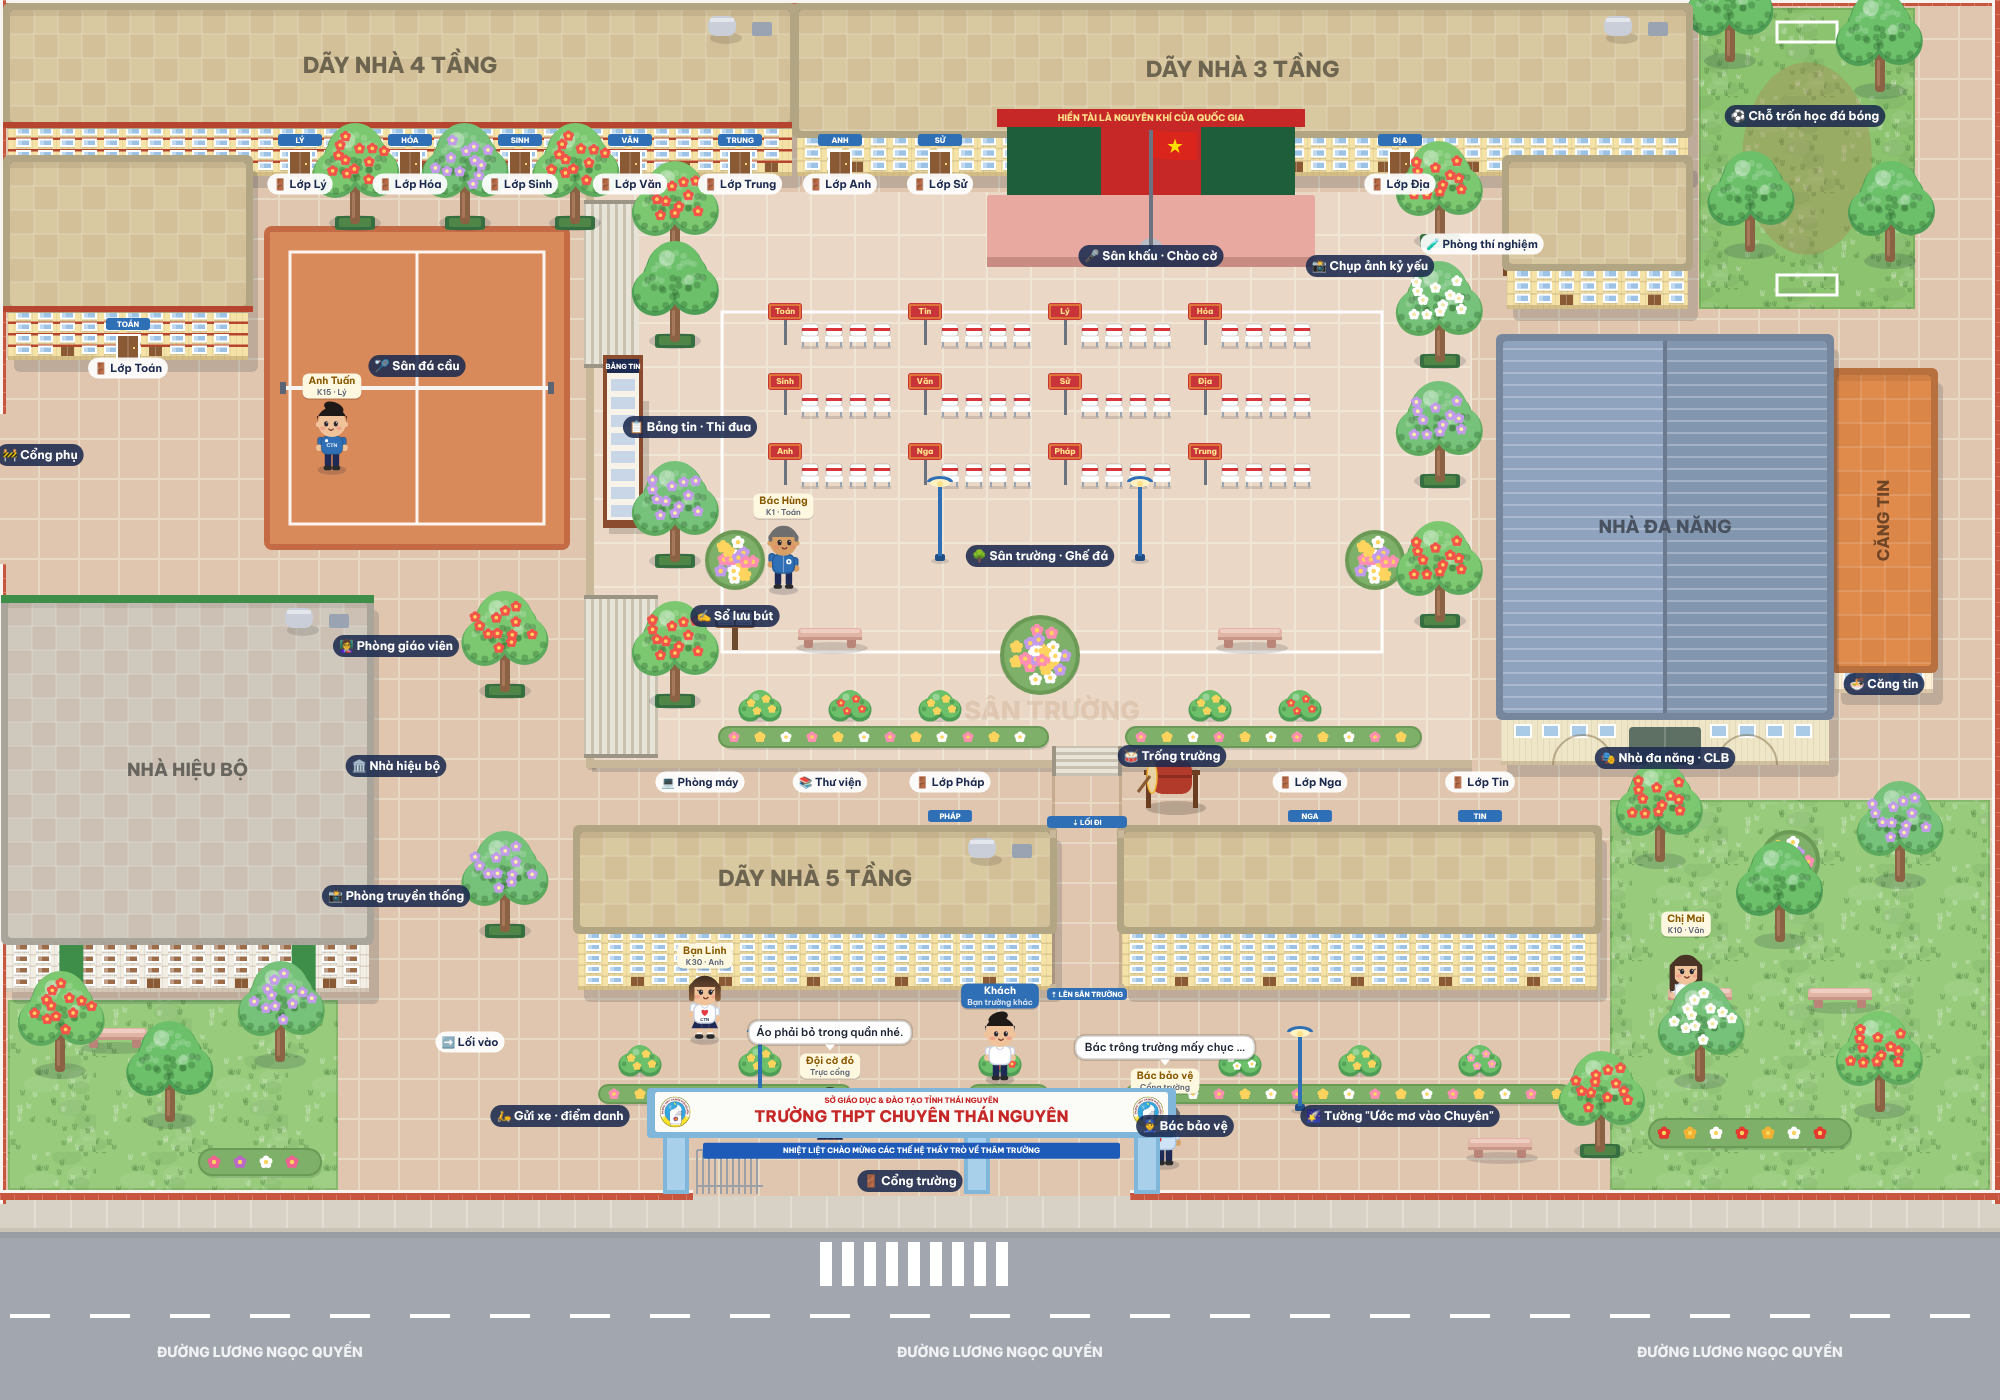
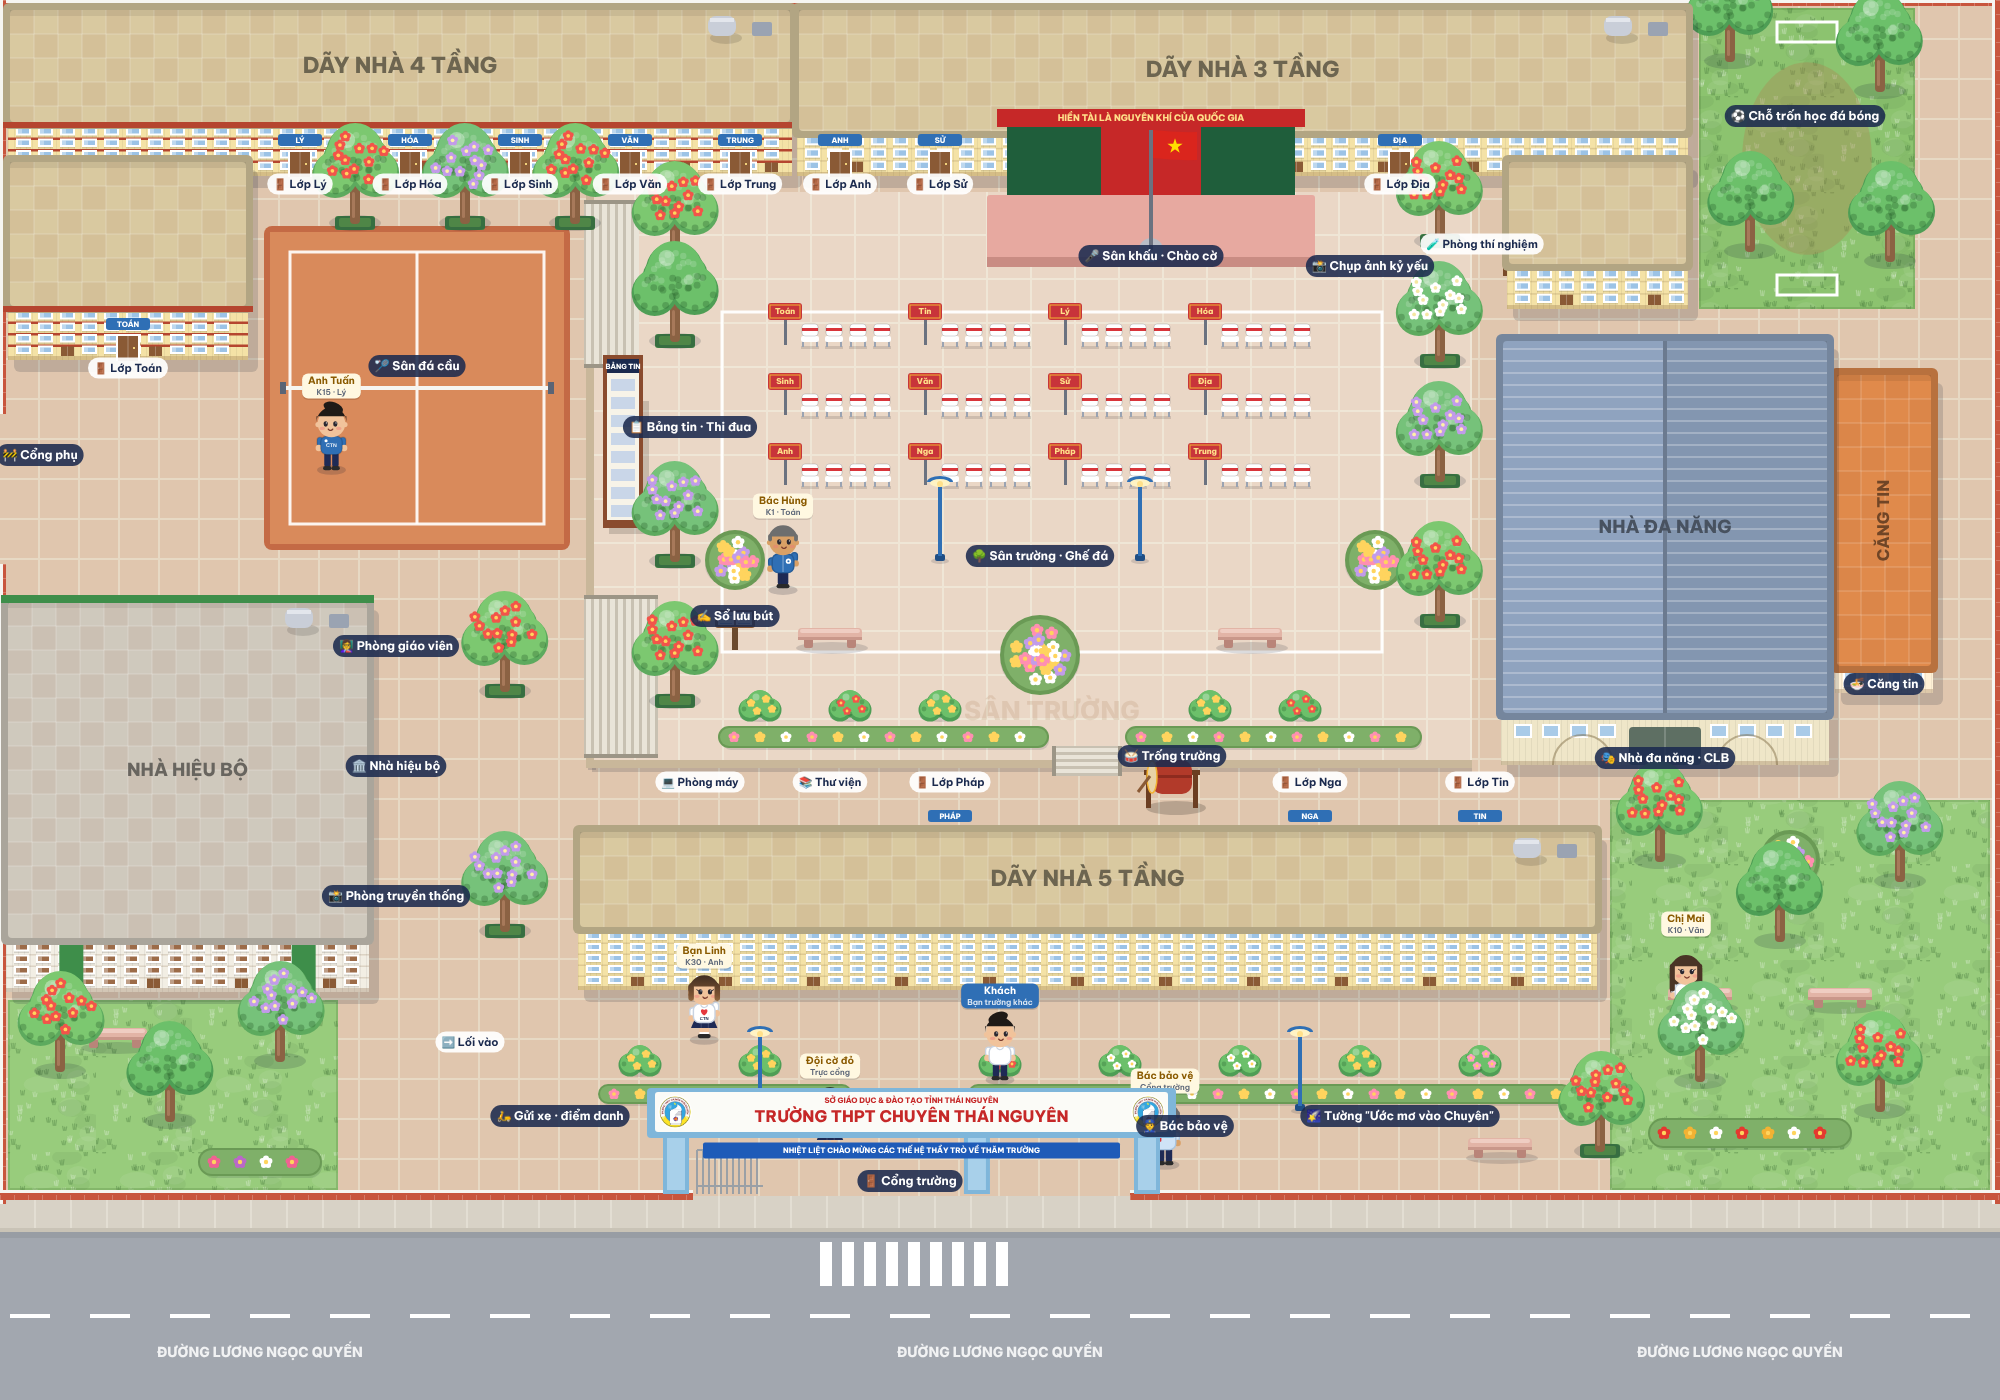
Lối đi giữa: chỉ chia đôi bồn hoa, giữ nguyên dãy 5 tầng
Dãy 5 tầng trở lại một khối; lối đi giữa là chỗ hở giữa hai nửa dải bồn hoa ở trống trường,
có bậc thang xuống hành lang trước mặt trong dãy 5 tầng. Bỏ lối xuyên qua dãy nhà và chỗ hở
ở bồn hoa, bụi cây phía trước. Cập nhật sơ đồ và tài liệu.

Claude-Session: https://claude.ai/code/session_01SVf8kGeQ6qEuhtfZz2rge2

diff --git a/public/js/campus.js b/public/js/campus.js
@@ -10,8 +10,6 @@ export const SPAWN = { x: 910, y: 1035 };
 
 // Sân trường cao hơn mặt đất, lên/xuống bằng bậc thang ở cạnh trái.
 export const YARD = { x: 592, y: 192, w: 880, h: 570 };
-// Lối đi giữa dãy 5 tầng (x 1052–1122): từ sân trường xuống bậc thang, xuyên qua dãy nhà ra sân trước cổng
-export const PASSAGE = { x: 1052, w: 70, y: 764, h: 226 };
 export const STAIRS = [
   { x: 592, y: 200, w: 46, h: 168, label: 'Bậc thang xuống sân đá cầu', dir: 'w' },
   { x: 592, y: 595, w: 66, h: 163, label: 'Bậc thang chính lên sân', dir: 'w' },
@@ -37,9 +35,7 @@ export const BUILDINGS = [
   { id: 'D3', name: 'Dãy nhà 3 tầng', short: 'DÃY NHÀ 3 TẦNG', x: 797, y: 8, w: 891, h: 168, floors: 3, wall: '#F4E2A6', roof: '#D9C9A0' },
   { id: 'D3', name: 'Dãy nhà 3 tầng', x: 1507, y: 160, w: 181, h: 149, floors: 3, wall: '#F4E2A6', roof: '#D9C9A0' },
   { id: 'HB', name: 'Nhà hiệu bộ', short: 'NHÀ HIỆU BỘ', x: 6, y: 600, w: 363, h: 392, floors: 4, wall: '#F2EEE4', roof: '#CFC9BD', bands: '#3E8E4A' },
-  // dãy 5 tầng tách hai khối, chừa lối đi ở giữa (PASSAGE)
-  { id: 'D5', name: 'Dãy nhà 5 tầng', short: 'DÃY NHÀ 5 TẦNG', x: 578, y: 830, w: 474, h: 160, floors: 5, wall: '#F4E2A6', roof: '#D9C9A0' },
-  { id: 'D5', name: 'Dãy nhà 5 tầng', x: 1122, y: 830, w: 475, h: 160, floors: 5, wall: '#F4E2A6', roof: '#D9C9A0' },
+  { id: 'D5', name: 'Dãy nhà 5 tầng', short: 'DÃY NHÀ 5 TẦNG', x: 578, y: 830, w: 1019, h: 160, floors: 5, wall: '#F4E2A6', roof: '#D9C9A0' },
   { id: 'DN', name: 'Nhà đa năng', short: 'NHÀ ĐA NĂNG', x: 1501, y: 339, w: 328, h: 426, floors: 1, wall: '#EFE6C8', roof: '#8FA3BF', hall: true },
   { id: 'CT', name: 'Căng tin', short: 'CĂNG TIN', x: 1835, y: 373, w: 98, h: 320, floors: 1, wall: '#FFF1D6', roof: '#E08A4B', vertical: true },
 ];
@@ -60,7 +56,7 @@ export const SIDE_GATE = { x: 0, y: 414, w: 10, h: 150 };
 // Mép sân trường (tường chắn) – vật cản, chừa chỗ bậc thang.
 export const EDGES = [
   { x: 586, y: 368, w: 8, h: 227 },
-  { x: 658, y: 756, w: 394, h: 8 }, { x: 1122, y: 756, w: 350, h: 8 }, // chừa bậc thang giữa
+  { x: 658, y: 756, w: 394, h: 8 }, { x: 1122, y: 756, w: 350, h: 8 }, // chừa bậc thang giữa (giữa hai nửa bồn hoa)
 ];
 
 // Lớp chuyên theo dãy nhà (theo trí nhớ của cựu học sinh). side: phía cửa quay ra.
@@ -132,7 +128,7 @@ trees.push({ x: 505, y: 690, kind: 'tree', bloom: 'phuong', planter: true }, { x
 // Chỗ trốn học
 for (const [x, y] of [[1730, 60], [1880, 90], [1750, 250], [1890, 260]]) trees.push({ x, y, kind: 'tree' });
 // Bờ cây trước dãy 5 tầng
-for (let x = 640; x <= 1560; x += 120) if ((x < 860 || x > 960) && Math.abs(x - 1087) > 70) trees.push({ x, y: 1070, kind: 'bonsai' });
+for (let x = 640; x <= 1560; x += 120) if (x < 860 || x > 960) trees.push({ x, y: 1070, kind: 'bonsai' });
 export const TREES = trees;
 
 export const LAMPS = [{ x: 940, y: 560 }, { x: 1140, y: 560 }, { x: 760, y: 1110 }, { x: 1300, y: 1110 }];
@@ -157,8 +153,9 @@ export const SEATS = [
 // Bồn hoa (là vật cản). round: bồn tròn bán kính r; còn lại hình chữ nhật.
 export const FLOWERBEDS = [
   { round: true, x: 735, y: 560, r: 26 }, { round: true, x: 1375, y: 560, r: 26 }, { round: true, x: 1040, y: 655, r: 36 },
-  { x: 720, y: 728, w: 327, h: 18 }, { x: 1127, y: 728, w: 293, h: 18 }, // dải hoa mép sân, hở ở lối đi giữa
-  { x: 600, y: 1086, w: 250, h: 16 }, { x: 970, y: 1086, w: 77, h: 16 }, { x: 1127, y: 1086, w: 443, h: 16 },
+  // dải hoa mép sân chia đôi ở chỗ trống trường: lối đi giữa xuống hành lang dãy 5 tầng
+  { x: 720, y: 728, w: 327, h: 18 }, { x: 1127, y: 728, w: 293, h: 18 },
+  { x: 600, y: 1086, w: 250, h: 16 }, { x: 970, y: 1086, w: 600, h: 16 },
   { x: 1650, y: 1120, w: 200, h: 26, colors: ['#E5382F', '#F2B233', '#FFFFFF'] },
   { x: 200, y: 1150, w: 120, h: 24, colors: ['#F06292', '#BA68C8', '#FFFFFF'] },
   { round: true, x: 1790, y: 860, r: 26 },

diff --git a/public/js/world.js b/public/js/world.js
@@ -1,5 +1,5 @@
 // Sân trường: vẽ bản đồ, camera, tìm đường (A* trên lưới), nhân vật mình + người khác.
-import { WORLD, GROUNDS, BUILDINGS, WALLS, GATE, TREES, BENCHES, SEATS, CHAIR_ROWS, ROOM_DOORS, FLOWERBEDS, LAMPS, STAIRS, YARD, DRUM, FLAG, BOARD, STAGE, HOTSPOTS, CLASS_DOORS, PASSAGE, solids } from './campus.js';
+import { WORLD, GROUNDS, BUILDINGS, WALLS, GATE, TREES, BENCHES, SEATS, CHAIR_ROWS, ROOM_DOORS, FLOWERBEDS, LAMPS, STAIRS, YARD, DRUM, FLAG, BOARD, STAGE, HOTSPOTS, CLASS_DOORS, solids } from './campus.js';
 import { drawAvatar } from './avatar.js';
 
 const CELL = 20;
@@ -338,16 +338,6 @@ function drawDoor(ctx, d) {
   }
 }
 
-// Biển cổng lối đi giữa dãy 5 tầng (hai trụ + biển nhỏ ở hai đầu)
-function drawPassageSign(ctx) {
-  const p = PASSAGE, top = 830, bot = top + 160;
-  for (const y of [top, bot - 6]) { ctx.fillStyle = '#C9B79A'; ctx.fillRect(p.x - 2, y, 6, 8); ctx.fillRect(p.x + p.w - 4, y, 6, 8); }
-  for (const [y, t] of [[top - 8, '⇣ LỐI ĐI'], [bot + 4, '⇡ LÊN SÂN TRƯỜNG']]) {
-    rr(ctx, p.x + p.w / 2 - 40, y - 6, 80, 12, 4); ctx.fillStyle = '#2F6FB5'; ctx.fill();
-    label(ctx, t, p.x + p.w / 2, y, { size: 7, color: '#fff', weight: 800 });
-  }
-}
-
 function drawTree(ctx, t, time) {
   const sway = Math.sin(time * 0.0008 + t.x) * 1.2;
   if (t.kind === 'palm') {
@@ -555,8 +545,6 @@ export const CAMPUS_SCENE = {
   solids: solids(), hotspots: HOTSPOTS, seats: SEATS, spawn: null,
   drawBg(ctx) {
     for (const g of GROUNDS) drawGround(ctx, g);
-    // lối đi giữa dãy 5 tầng: lát gạch như sân, hai bên có viền
-    { const p = PASSAGE; tiles(ctx, p.x, p.y, p.w, p.h, '#E7D9C4'); ctx.fillStyle = 'rgba(120,90,50,.25)'; ctx.fillRect(p.x, p.y, 3, p.h); ctx.fillRect(p.x + p.w - 3, p.y, 3, p.h); }
     for (const st of STAIRS) drawStairs(ctx, st);
     for (const fb of FLOWERBEDS) drawFlowerbed(ctx, fb);
     // tường rào thấp màu kem
@@ -578,7 +566,6 @@ export const CAMPUS_SCENE = {
     const items = [];
     for (const b of BUILDINGS) items.push({ y: b.y + b.h, draw: () => drawBuilding(ctx, b) });
     for (const d of CLASS_DOORS) if (d.side === 's') items.push({ y: d.y - 25, draw: () => drawDoor(ctx, d) });
-    items.push({ y: PASSAGE.y + PASSAGE.h + 1, draw: () => drawPassageSign(ctx) });
     for (const t of TREES) items.push({ y: t.y, draw: () => drawTree(ctx, t, now) });
     for (const b of BENCHES) items.push({ y: b.y - 1, draw: () => drawBench(ctx, b) });
     items.push({ y: STAGE.y + STAGE.h + 1, draw: () => drawFlag(ctx, now) });
@@ -1070,7 +1057,6 @@ export class World {
     const items = [];
     for (const b of BUILDINGS) items.push({ y: b.y + b.h, draw: () => drawBuilding(ctx, b) });
     for (const d of CLASS_DOORS) if (d.side === 's') items.push({ y: d.y - 25, draw: () => drawDoor(ctx, d) });
-    items.push({ y: PASSAGE.y + PASSAGE.h + 1, draw: () => drawPassageSign(ctx) });
     for (const t of TREES) items.push({ y: t.y, draw: () => drawTree(ctx, t, now) });
     items.push({ y: STAGE.y + STAGE.h + 1, draw: () => drawFlag(ctx, now) });
     items.push({ y: DRUM.y, draw: () => drawDrum(ctx) });

diff --git a/docs/YEU-CAU.md b/docs/YEU-CAU.md
@@ -2,7 +2,7 @@
 
 | | |
 |---|---|
-| Phiên bản | 1.6 – tải ảnh lên làm ảnh kỷ yếu, sửa tên thầy cô chủ nhiệm, lối đi giữa sân vào dãy 5 tầng |
+| Phiên bản | 1.6 – tải ảnh lên làm ảnh kỷ yếu, sửa tên thầy cô chủ nhiệm, lối đi giữa bồn hoa vào dãy 5 tầng |
 | Nhánh | `claude/thpt-chuyen-thai-nguyen-srs08f` |
 | Tài liệu liên quan | [Tài liệu thiết kế](THIET-KE.md) · [README](../README.md) |
 | Sản phẩm tham khảo | [thpt.chuyenhalong.workers.dev](https://thpt.chuyenhalong.workers.dev/) |
@@ -106,7 +106,7 @@ vào đúng nhân vật, cùng tên, cùng ví, cùng điểm.
 | YC-SD-04 | Vị trí lớp chuyên: **dãy 4 tầng** trái → phải Toán, Lý, Hóa, Sinh, Văn, Trung (Lý sát Hóa, các lớp giãn đều); **dãy 3 tầng** trái → phải Anh, Sử, Địa; **dãy 5 tầng** phải → trái Tin, Nga, Pháp, cửa ở mặt trong quay vào sân trường | P1 | ✅ |
 | YC-SD-05 | Sân khấu có phông "Hiền tài là nguyên khí của quốc gia", **cột cờ ở giữa sân khấu** | P2 | ✅ |
 | YC-SD-06 | **Trống trường** ở giữa dãy 5 tầng, phía sát sân trường (ngay cạnh lối đi giữa) | P2 | ✅ |
-| YC-SD-17 | **Lối đi giữa dãy 5 tầng**: từ sân trường, giữa hai nửa dải bồn hoa ở chỗ trống trường, có bậc thang xuống, đi xuyên qua dãy 5 tầng ra sân trước cổng; hai đầu có biển "Lối đi" / "Lên sân trường" | P1 | ✅ |
+| YC-SD-17 | **Lối đi giữa sân vào dãy 5 tầng**: dải bồn hoa mép sân chia đôi đúng chỗ trống trường, có bậc thang xuống hành lang trước mặt trong dãy 5 tầng (cửa các lớp Pháp, Nga, Tin, thư viện, phòng máy); dãy 5 tầng giữ nguyên, không chia đôi | P1 | ✅ |
 | YC-SD-07 | Chạm/nhấp vào sân thì nhân vật tự tìm đường đi tới, không xuyên qua nhà, tường, cây, bậc chắn | P1 | ✅ |
 | YC-SD-08 | Chạm vào nhãn địa điểm thì nhân vật đi tới đó và tự mở chức năng khi tới nơi (bản 1.3 sửa lỗi vùng chạm của nhãn bị sai nên chạm nhãn không có tác dụng) | P1 | ✅ |
 | YC-SD-09 | Từ cổng trường đi tới được **mọi** địa điểm và cửa lớp | P1 | ✅ |
